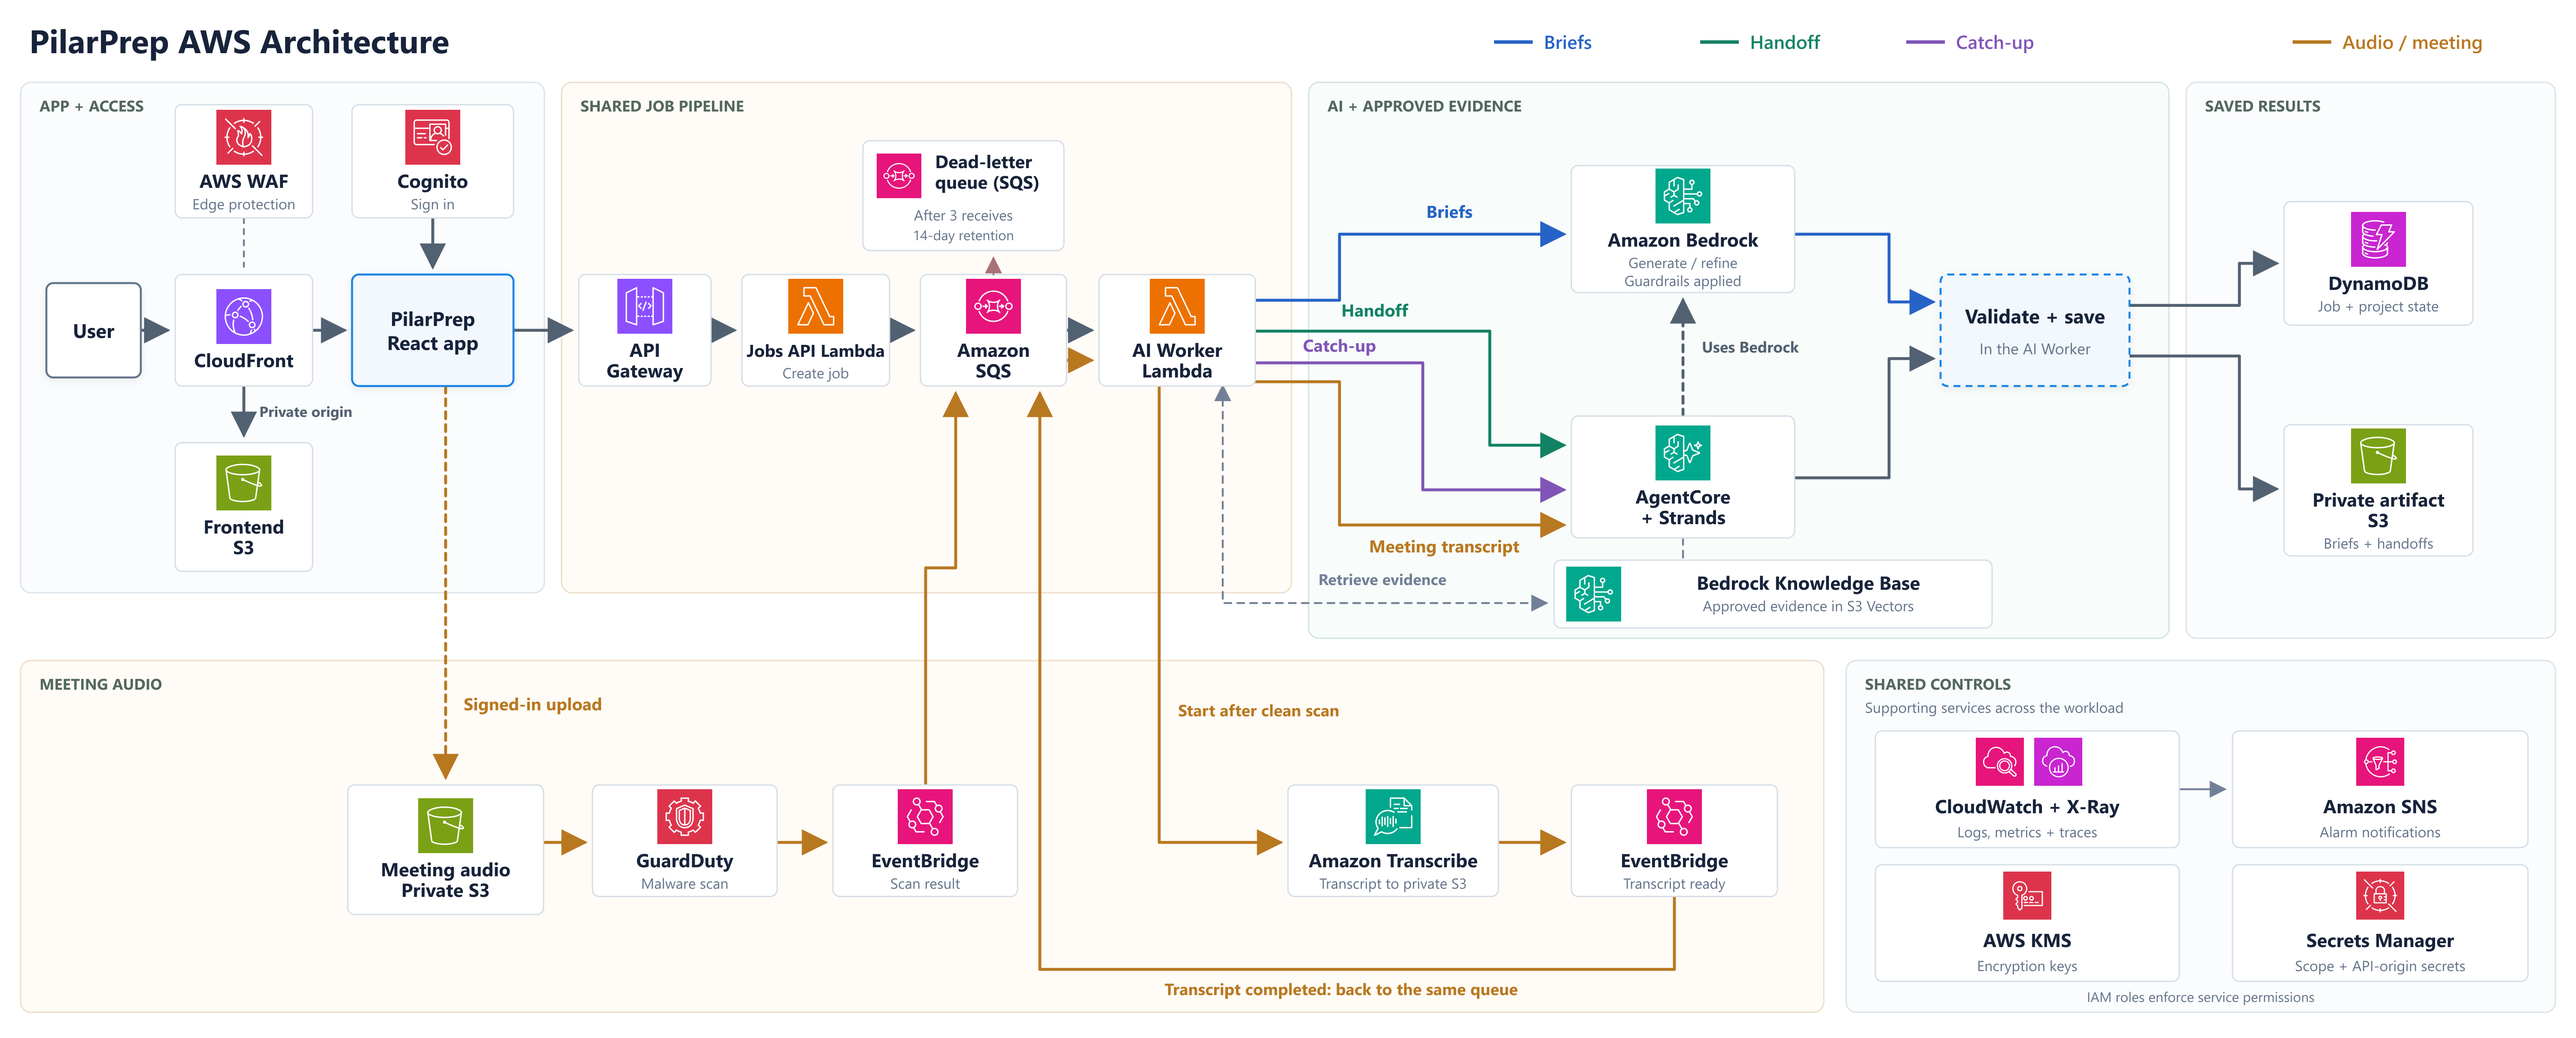
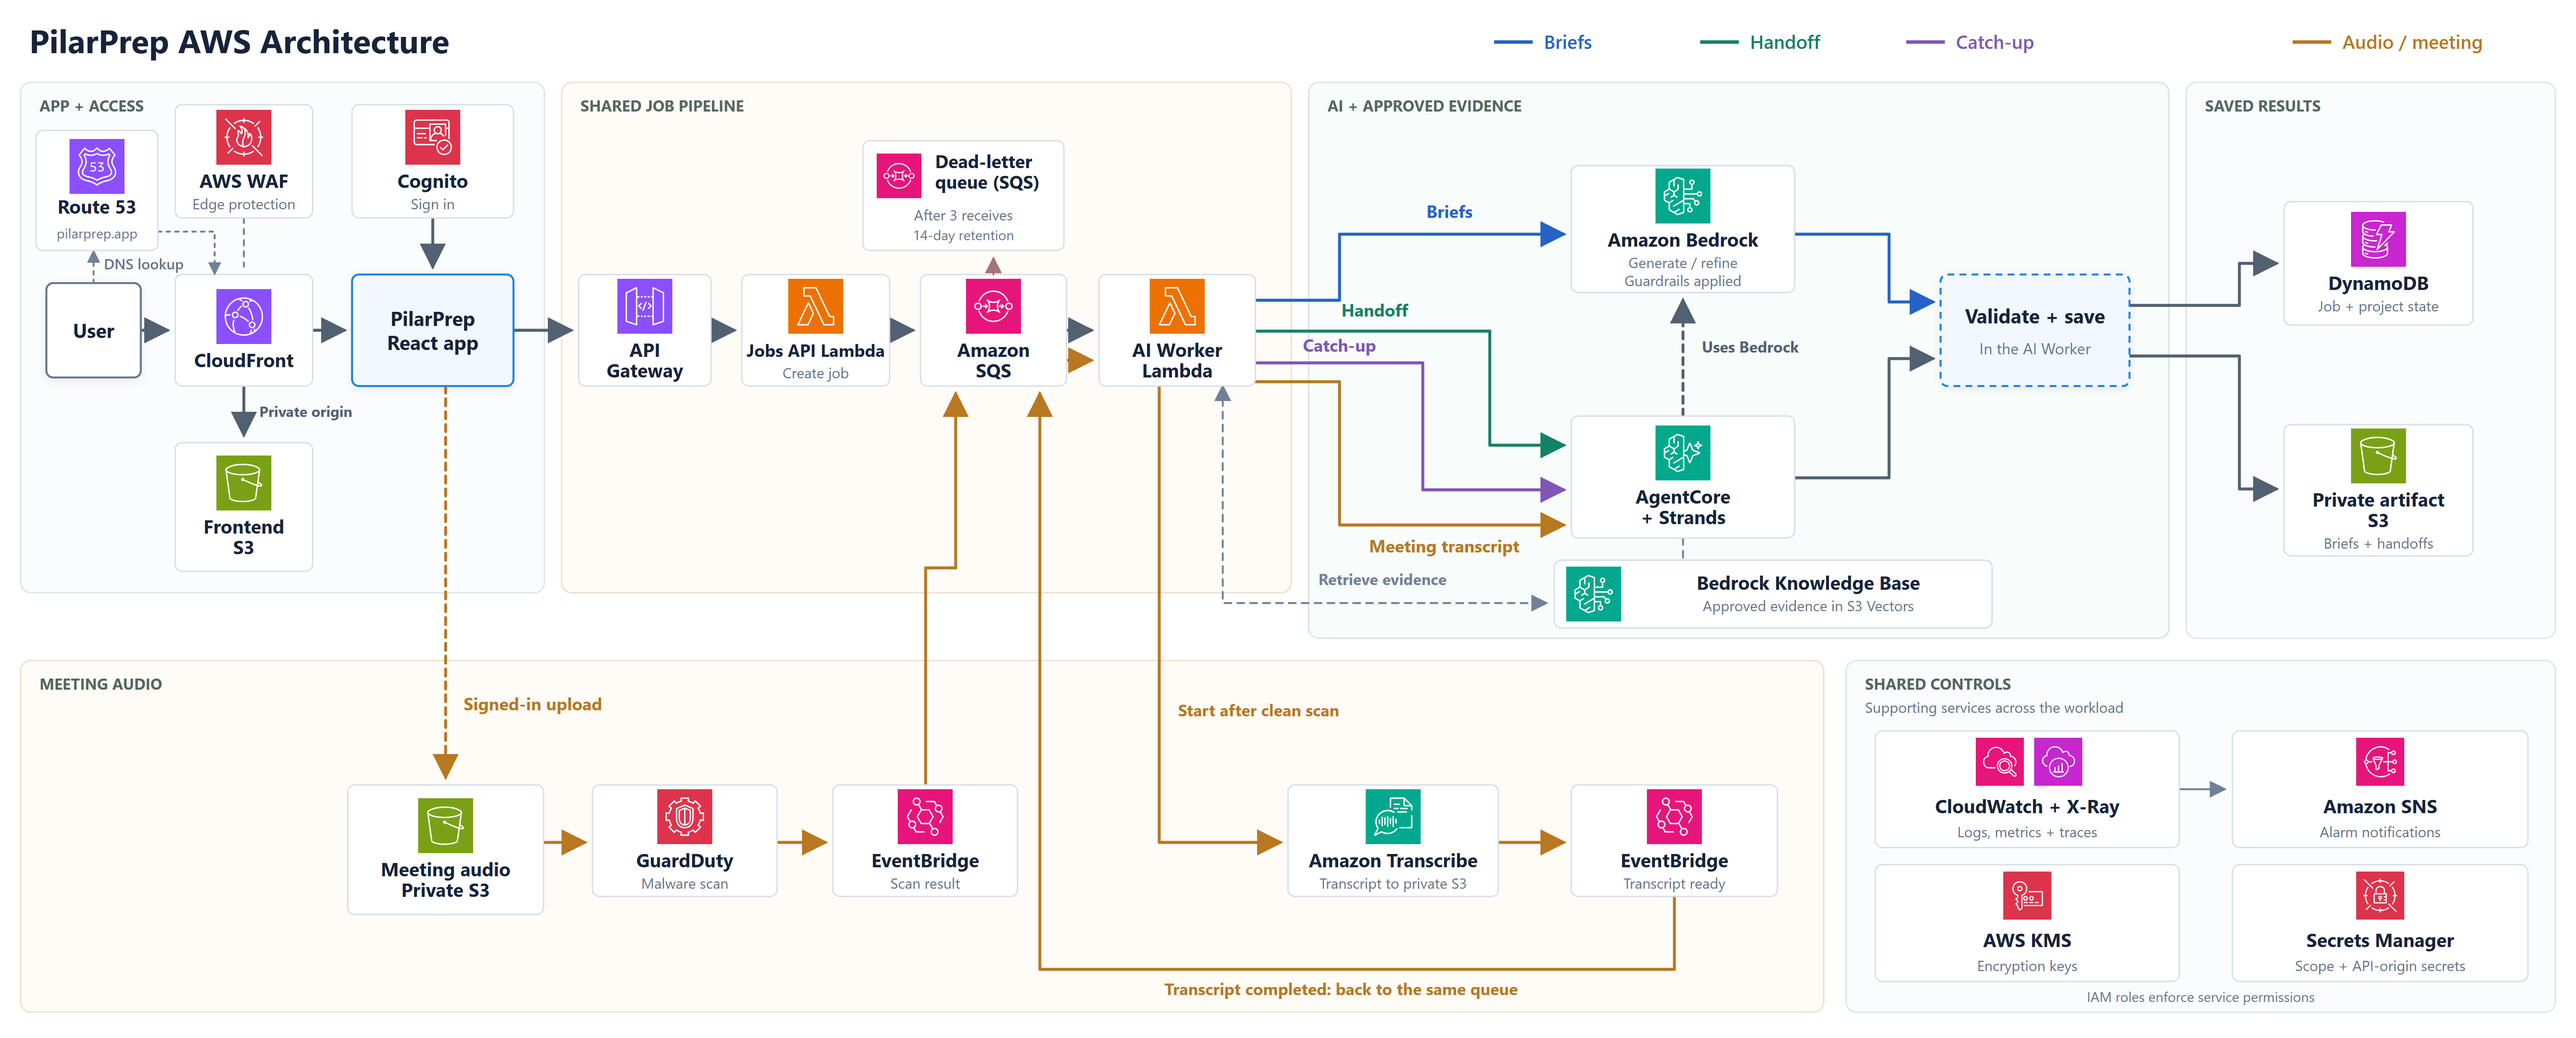
docs: add Route 53 DNS to the AWS architecture diagram

diff --git a/README.md b/README.md
@@ -28,7 +28,7 @@ The shared request path is **React -> API Gateway -> Jobs API Lambda -> SQS -> A
 
 The two audio events return to the same queue: first the malware-scan result, then the transcription result. "Validate + save" is code inside the AI Worker, not an extra deployed Lambda.
 
-The diagram also shows WAF edge protection, the SQS dead-letter queue, and the shared monitoring, alerting, encryption, and secret-management services. AgentCore remains one box so its internal tools and memory do not distract from the main routes. Meeting interpretation and packet corrections use Bedrock through Strands; customer context is not PII-screened or redacted by Comprehend.
+The diagram also shows Route 53 DNS, WAF edge protection, the SQS dead-letter queue, and the shared monitoring, alerting, encryption, and secret-management services. Route 53 resolves `pilarprep.app` to CloudFront; its dashed DNS connection is separate from the solid application request path. AgentCore remains one box so its internal tools and memory do not distract from the main routes. Meeting interpretation and packet corrections use Bedrock through Strands; customer context is not PII-screened or redacted by Comprehend.
 
 See [Architecture](ARCHITECTURE.md) for the request flows and current tradeoffs. The [code map](docs/architecture/code-map.md) connects every diagram box to its implementation or infrastructure definition.
 

diff --git a/docs/architecture/code-map.md b/docs/architecture/code-map.md
@@ -5,6 +5,7 @@ Use the same labels as the [architecture diagram](pilarprep-aws-architecture.png
 | Diagram component | Application code | Infrastructure |
 | --- | --- | --- |
 | PilarPrep React app | [App](../../frontend/src/App.tsx), [browser clients](../../frontend/src/lib/) | [Frontend](../../infrastructure/frontend.yaml) |
+| Route 53 | DNS lookup only; no application handler | Live `pilarprep.app` public hosted zone with A/AAAA aliases to CloudFront; DNS is configured separately from the [frontend template](../../infrastructure/frontend.yaml), as described in [deployment](../../DEPLOYMENT.md) |
 | CloudFront and frontend S3 | [Browser entry](../../frontend/src/main.tsx), [build](../../vite.config.ts) | [Frontend](../../infrastructure/frontend.yaml) |
 | AWS WAF | Edge protection; no separate application handler | [CloudFront Web ACL association and optional managed ACL](../../infrastructure/frontend.yaml) |
 | Cognito | [Workspace authentication](../../frontend/src/lib/cognito-auth.ts), [guest signing](../../frontend/src/lib/aws-sigv4.ts), [server scope](../../backend/pipeline/state.py) | [Jobs pipeline](../../infrastructure/jobs-pipeline.yaml), [core Bedrock stack](../../infrastructure/bedrock.yaml) |
